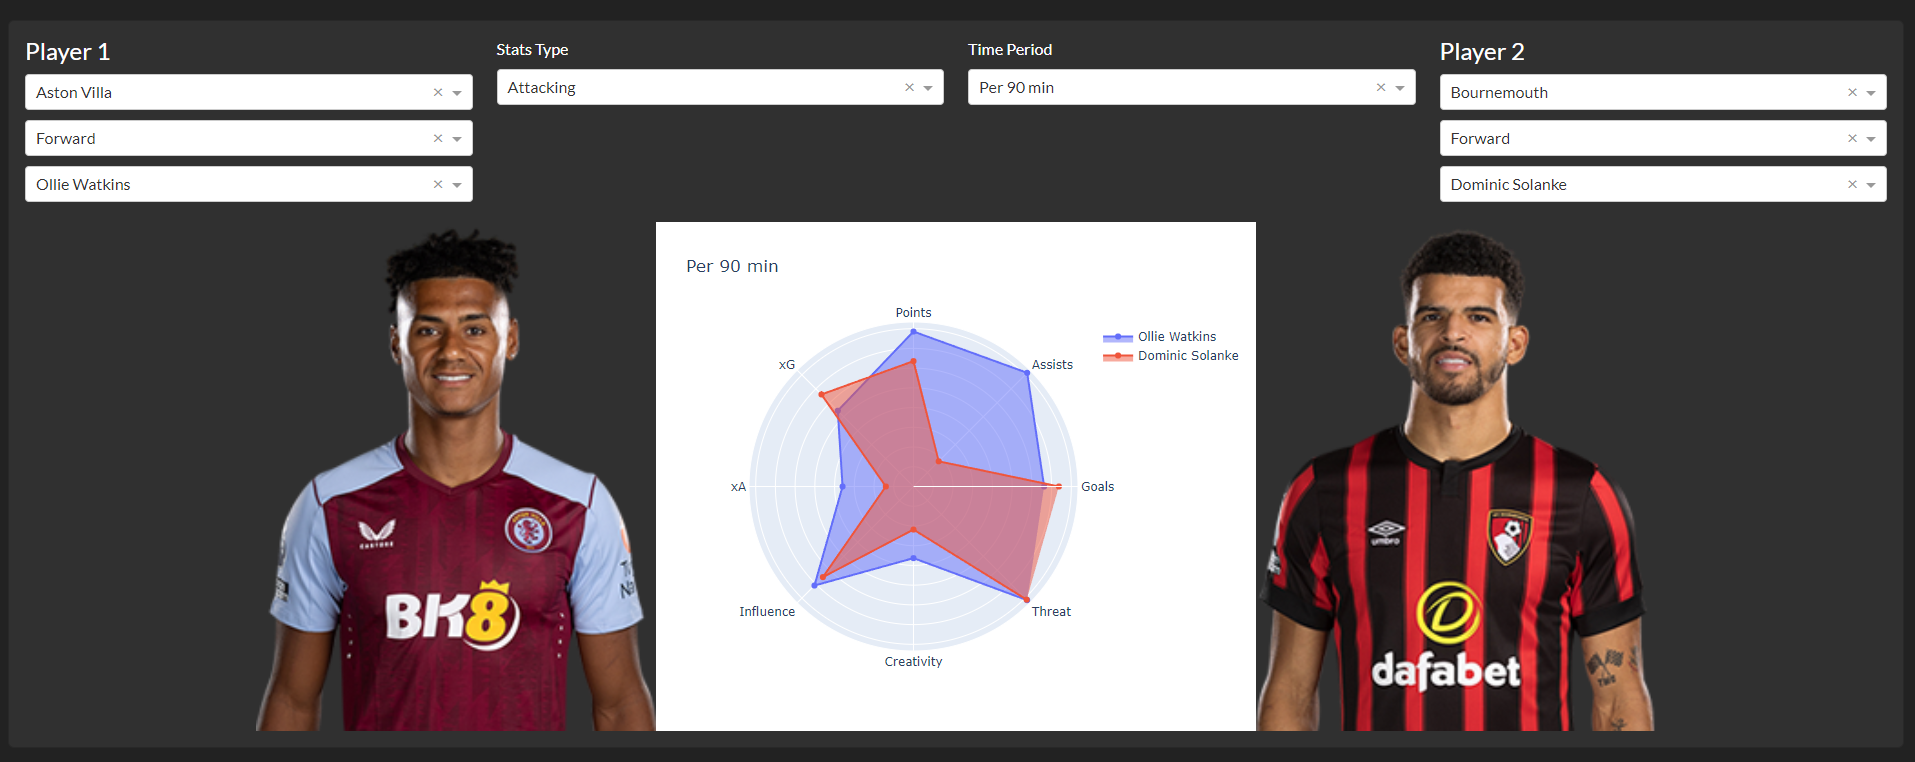
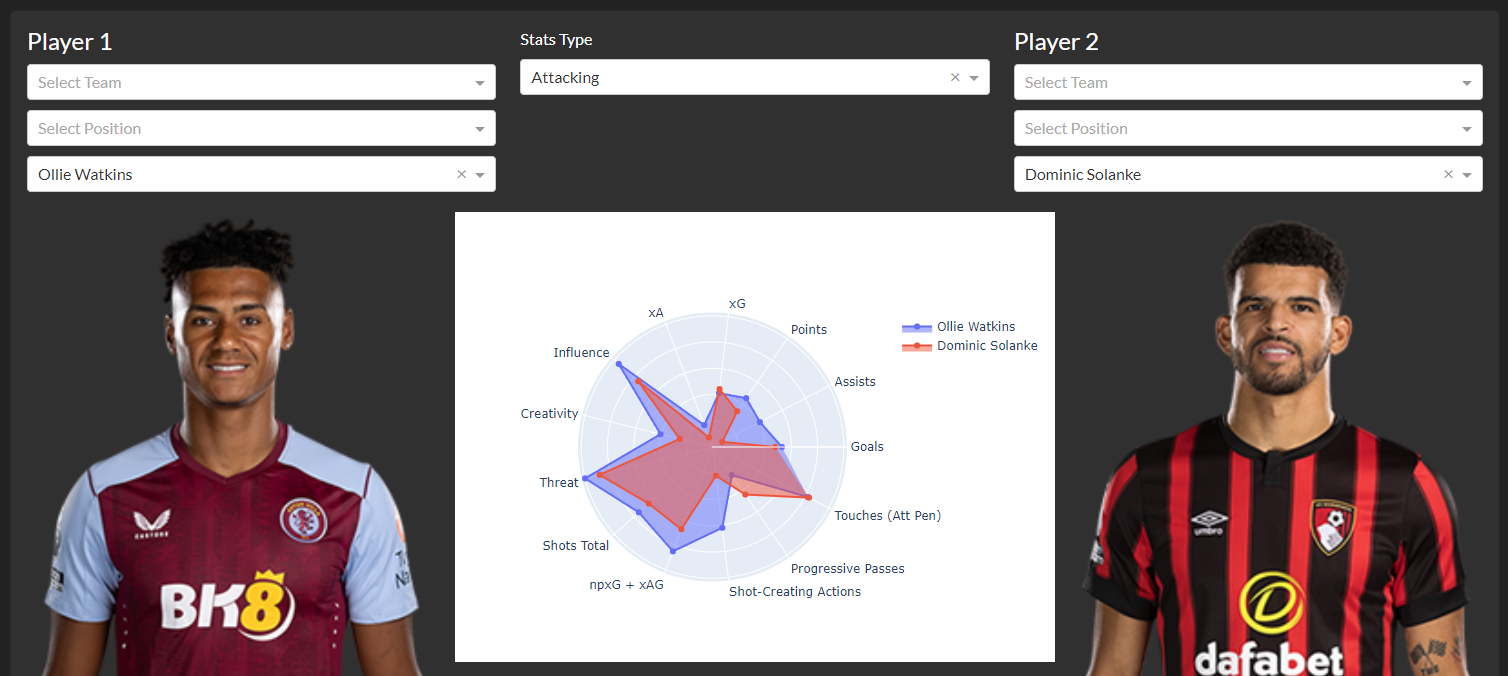
readme update

diff --git a/README.md b/README.md
@@ -3,7 +3,9 @@ Portfolio project - Fantasy Premier League data dashboard.
 
 The app is avaiable [here](https://fpl-analytics.onrender.com/).
 
-It uses the up to date data from the official FPL web api (https://fantasy.premierleague.com/api/bootstrap-static/).
+## General Data
+It uses the up to date data from the official FPL web api (https://fantasy.premierleague.com/api/bootstrap-static/). The charts provide the insite to the most "cost efficient" assets in the game, both offensively and deffensively.
 
-It contains the players comparison tool.
+## Player comparison
+It contains the players comparison tool. The tool combines the data from Fantasy Premier League game and the data scrapped using BeautifulSoup from [Fbrev](https://fbref.com/en/), a website which aggregates football statistics.
 ![image](img/preview.png)
